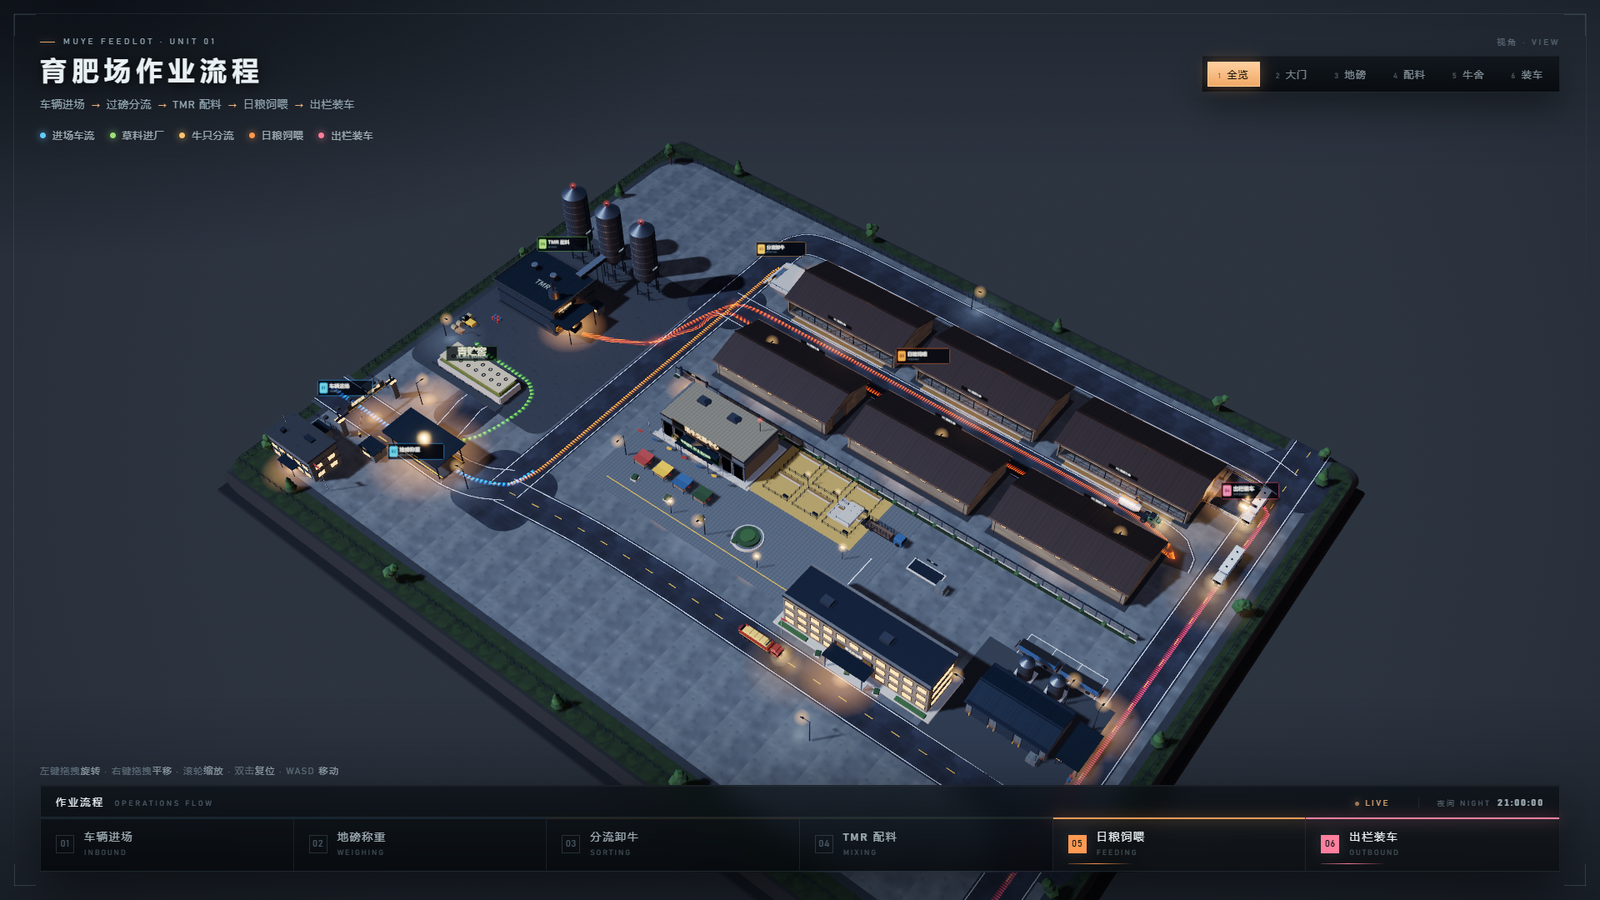
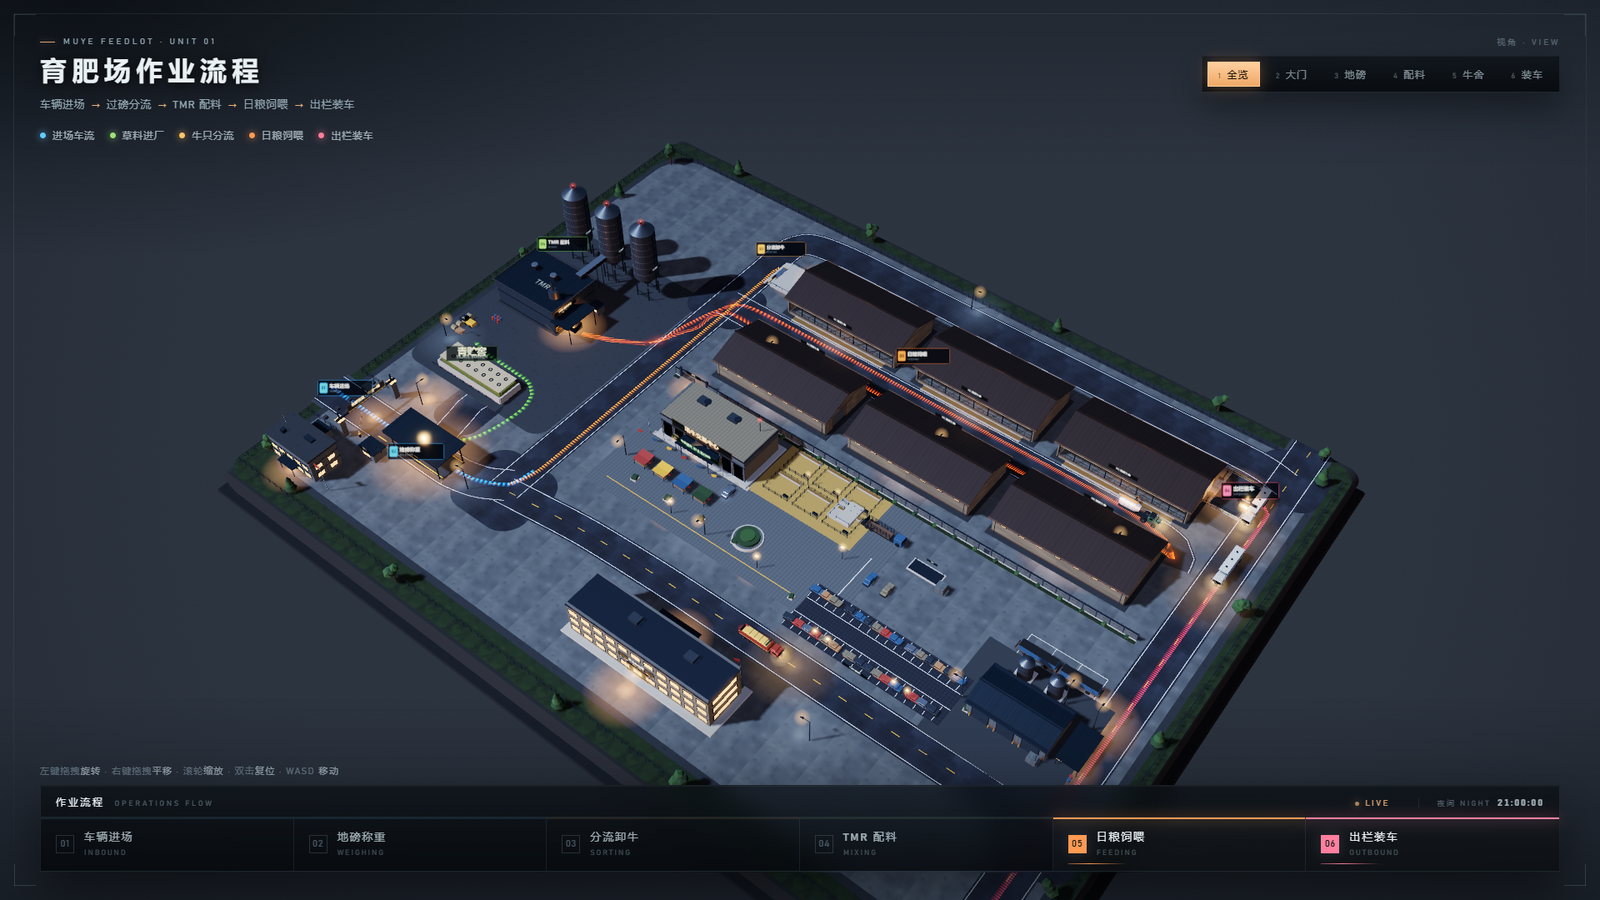
feat: 员工楼移到园区南侧，交易中心加停车场
- 员工办公楼挪到南侧临路的空地，整体转 180° 朝北，前后两个长立面都开窗，背面（园区一侧）加门廊与楼名
- 新增交易中心员工停车场：两排 48 个车位、三十来台程序化车辆、四盏车位灯、车位线与 P 牌
- 大厅门前补几台临停车辆
- kit 的镜像工具 generic 成 mirrorKit(kit,cx,cz,rot)，员工楼与镜像牛舍共用

Changed region(s): [[0.3438, 0.6222, 0.625, 0.8089]]

diff --git a/js/buildings.js b/js/buildings.js
@@ -114,10 +114,11 @@
   }
 
   /* 镜像排：几何绕自心转 180°（用旋转而不是负缩放，否则法线/绕序会反） */
-  function mirrorKit(kit, cx, cz) {
+  /* 把一棵 kit 子树整体绕 (cx,cz) 旋转 rot —— 用来做镜像牛舍和朝北的员工楼 */
+  function mirrorKit(kit, cx, cz, rot) {
     const pre = new THREE.Matrix4()
       .makeTranslation(cx, 0, cz)
-      .multiply(new THREE.Matrix4().makeRotationY(Math.PI))
+      .multiply(new THREE.Matrix4().makeRotationY(rot === undefined ? Math.PI : rot))
       .multiply(new THREE.Matrix4().makeTranslation(-cx, 0, -cz));
     return {
       add: function (geo, mat, matrix) {
@@ -945,9 +946,10 @@
   }
 
   /* ---------------- 员工办公楼 ---------------- */
-  function buildStaffOffice(kit, M, world) {
+  function buildStaffOffice(rawKit, M, world) {
     const O = L.market.office;
     const cx = O.cx, cz = O.cz, w = O.w, d = O.d;
+    const kit = O.rot ? mirrorKit(rawKit, cx, cz, O.rot) : rawKit;
     const zf = cz + d / 2;
     const H = 10.6;
 
@@ -960,19 +962,37 @@
     U.box(kit, M.wallCool, w + 0.4, 1.0, 0.3, cx, 0.8 + H + 0.62, zf - 0.2);
     U.box(kit, M.wallCool, w + 0.4, 1.0, 0.3, cx, 0.8 + H + 0.62, cz - d / 2 + 0.2);
 
-    // 三层窗（南立面）
+    // 三层窗（前后两个长立面都开窗，楼在路南侧、镜头从东南看过来）
     const bays = 11, bw = w / bays;
+    const zb = cz - d / 2;
     for (let f = 0; f < 3; f++) {
       const y = 2.2 + f * 3.3;
       for (let i = 0; i < bays; i++) {
         const x = cx - w / 2 + bw * (i + 0.5);
-        if (f === 0 && (i === 4 || i === 5 || i === 6)) continue;
-        U.box(kit, M.glass, bw - 1.05, 1.85, 0.14, x, y + 0.5, zf + 0.02);
-        U.box(kit, M.warmGlow, bw - 1.5, 1.5, 0.06, x, y + 0.5, zf + 0.1);
-        U.box(kit, M.steelLight, 0.14, 1.9, 0.2, x - (bw - 1.05) / 2, y + 0.5, zf + 0.06);
-        U.box(kit, M.steelLight, 0.14, 1.9, 0.2, x + (bw - 1.05) / 2, y + 0.5, zf + 0.06);
+        const frontDoor = f === 0 && (i === 4 || i === 5 || i === 6);
+        if (!frontDoor) {
+          U.box(kit, M.glass, bw - 1.05, 1.85, 0.14, x, y + 0.5, zf + 0.02);
+          U.box(kit, M.warmGlow, bw - 1.5, 1.5, 0.06, x, y + 0.5, zf + 0.1);
+          U.box(kit, M.steelLight, 0.14, 1.9, 0.2, x - (bw - 1.05) / 2, y + 0.5, zf + 0.06);
+          U.box(kit, M.steelLight, 0.14, 1.9, 0.2, x + (bw - 1.05) / 2, y + 0.5, zf + 0.06);
+        }
+        U.box(kit, M.glass, bw - 1.05, 1.85, 0.14, x, y + 0.5, zb - 0.02);
+        U.box(kit, M.warmGlow, bw - 1.5, 1.5, 0.06, x, y + 0.5, zb - 0.1);
+        U.box(kit, M.steelLight, 0.14, 1.9, 0.2, x - (bw - 1.05) / 2, y + 0.5, zb - 0.06);
+        U.box(kit, M.steelLight, 0.14, 1.9, 0.2, x + (bw - 1.05) / 2, y + 0.5, zb - 0.06);
       }
     }
+    // 背面（园区朝南那侧）也留个入口门廊与楼名
+    U.box(kit, M.glass, 7.2, 4.2, 0.16, cx, 2.5, zb - 0.04);
+    for (const px of [cx - 3.6, cx, cx + 3.6]) {
+      U.box(kit, M.steelLight, 0.2, 4.3, 0.2, px, 2.5, zb - 0.1);
+    }
+    sign(world, '员工办公楼', 'STAFF OFFICE · 综合管理', 10, 1.6, cx, 6.3, zb - 0.22, Math.PI, {
+      size: 88, subSize: 34, bg: 'rgba(9,12,15,0.92)', border: 'rgba(150,205,255,0.42)',
+      glow: 'rgba(120,180,255,0.28)', color: '#e6f1ff', subColor: 'rgba(175,205,235,0.8)',
+    });
+    glowPlane(world, 7.0, 3.4, cx, 2.5, zb - 0.3, Math.PI, 0xffc98a, 0.14);
+    world.pools.push({ x: cx, z: zb - 3.4, size: 18, warm: 0.85 });
     // 东西两侧条窗
     for (let f = 0; f < 3; f++) {
       const y = 2.2 + f * 3.3;
@@ -1053,6 +1073,87 @@
     }
   }
 
+  /* ---------------- 交易中心停车场 ---------------- */
+  function parkedCar(kit, M, x, z, rot, paint) {
+    const base = U.mat4(x, 0.24, z, 0, rot, 0);
+    const put = function (mat, w, h, d, px, py, pz, r) {
+      const g = U.roundedBox(w, h, d, r === undefined ? 0.06 : r);
+      g.applyMatrix4(U.mat4(px, py, pz));
+      g.applyMatrix4(base);
+      kit.add(g, mat);
+    };
+    put(M.plinth, 4.3, 0.34, 1.86, 0, 0.52, 0, 0.1);
+    put(paint, 3.9, 0.66, 1.8, 0, 0.86, 0, 0.24);
+    put(paint, 1.95, 0.6, 1.62, -0.15, 1.44, 0, 0.26);      // 车顶（跟车身同色，从上往下看才不是黑块）
+    put(M.glass, 1.9, 0.34, 1.66, -0.15, 1.3, 0, 0.1);      // 一圈车窗带
+    put(paint, 1.6, 0.16, 1.66, 1.5, 1.26, 0, 0.08);
+    put(M.plinth, 3.9, 0.12, 1.7, 0, 0.44, 0, 0.04);
+    for (const px of [1.32, -1.32]) {
+      for (const pz of [-0.8, 0.8]) {
+        const g = new THREE.CylinderGeometry(0.33, 0.33, 0.24, 12);
+        g.applyMatrix4(U.mat4(0, 0, 0, Math.PI / 2, 0, 0));
+        g.applyMatrix4(U.mat4(px, 0.38, pz));
+        g.applyMatrix4(base);
+        kit.add(g, M.plinth);
+      }
+    }
+  }
+
+  function buildParking(kit, M, world) {
+    const P = L.market.parking;
+    const st = P.stall || 2.7;
+    const midZ = (P.z0 + P.z1) / 2;
+    const aisle = P.aisle || 5.2;
+    const rowD = Math.min(5.2, (P.z1 - P.z0 - aisle) / 2);
+    const n = Math.floor((P.x1 - P.x0) / st);
+    const paints = [M.wall, M.galv, M.red, M.blue, M.steelLight, M.timberLight, M.wall, M.galv];
+
+    // 铺装与车位线
+    U.box(kit, M.asphalt, P.x1 - P.x0, 0.1, P.z1 - P.z0, (P.x0 + P.x1) / 2, 0.29, midZ, 0, 0, 0, 2);
+    for (let i = 0; i <= n; i++) {
+      const x = P.x0 + i * st;
+      U.box(kit, M.line, 0.14, 0.03, rowD - 0.5, x, 0.36, P.z0 + rowD / 2, 0, 0, 0, 0.02);
+      U.box(kit, M.line, 0.14, 0.03, rowD - 0.5, x, 0.36, P.z1 - rowD / 2, 0, 0, 0, 0.02);
+    }
+    U.box(kit, M.line, P.x1 - P.x0, 0.03, 0.14, (P.x0 + P.x1) / 2, 0.36, midZ - aisle / 2);
+    U.box(kit, M.line, P.x1 - P.x0, 0.03, 0.14, (P.x0 + P.x1) / 2, 0.36, midZ + aisle / 2);
+
+    // 车位上的车（按固定节奏留空位，看着像停了大半）
+    const order = [3, 1, 5, 2, 0, 4, 6, 2, 7, 0, 3, 5, 1, 4, 0, 6, 2, 7, 3, 1, 5, 0, 4, 2, 6, 3, 1, 0, 5, 2, 7, 4];
+    let k = 0;
+    for (let i = 0; i < n; i++) {
+      const x = P.x0 + st * (i + 0.5);
+      for (const half of [0, 1]) {
+        const z = half === 0 ? P.z0 + rowD / 2 - 0.15 : P.z1 - rowD / 2 + 0.15;
+        const rot = half === 0 ? 0 : Math.PI;
+        if ((i * 3 + half * 5) % 7 === 2) { k++; continue; }
+        parkedCar(kit, M, x, z, rot, paints[order[k % order.length]]);
+        k++;
+      }
+    }
+
+    // 车位灯 + 两个出入口
+    for (const lx of [P.x0 + 10, P.x1 - 10, P.x0 + 34, P.x1 - 34]) {
+      U.cyl(kit, M.steel, 0.08, 0.1, 5.0, 8, lx, 2.7, P.z1 - 1.0);
+      U.box(kit, M.lamp, 0.7, 0.16, 0.5, lx, 5.15, P.z1 - 1.0);
+      glowSprite(world, 0xffd7a0, 2.2, lx, 5.15, P.z1 - 1.0, 0.8);
+      world.pools.push({ x: lx, z: midZ, size: 12, warm: 0.8 });
+    }
+    sign(world, 'P 员工停车场', 'STAFF PARKING · 48 车位', 7.6, 1.5, (P.x0 + P.x1) / 2, 3.1, P.z1 + 1.2, 0, {
+      size: 72, subSize: 30, bg: 'rgba(8,12,14,0.9)', border: 'rgba(120,200,255,0.35)',
+      glow: 'rgba(90,180,255,0.2)', color: '#d6ecff',
+    });
+    // 入口花箱
+    for (const bx of [P.x0 - 3, P.x1 + 3]) {
+      U.box(kit, M.concreteTrough, 1.6, 0.6, 1.6, bx, 0.5, midZ, 0, 0, 0, 0.14);
+      U.box(kit, M.leafA, 1.35, 0.8, 1.35, bx, 1.0, midZ, 0, 0.4, 0, 0.3);
+    }
+    // 大厅门前几台临停
+    parkedCar(kit, M, -8, 15.4, Math.PI * 0.5, M.steelLight);
+    parkedCar(kit, M, 40, 15.4, Math.PI * 0.5, M.blue);
+    parkedCar(kit, M, 45.5, 15.4, Math.PI * 0.5, M.wall);
+  }
+
   /* ---------------- 入口 ---------------- */
   FL.buildBuildings = function (kit, M, world) {
     M.warmGlow.userData.noShadow = true;
@@ -1072,6 +1173,7 @@
     buildCompoundWall(kit, M, world);
     buildTradingCenter(kit, M, world);
     buildStaffOffice(kit, M, world);
+    buildParking(kit, M, world);
 
     // 机修车库挪到东南角，挂车停在员工车场
     buildWorkshop(kit, M, world, L.market.workshop.cx, L.market.workshop.cz);

diff --git a/js/layout.js b/js/layout.js
@@ -81,7 +81,8 @@
       ramp: { x: 23, z: 1 },
       scale: { x: 50, z: 4 },
       lot: { x0: 82, x1: 104, z0: 3.5, z1: 14.5 },
-      office: { cx: 52, cz: 33, w: 44, d: 12 },
+      parking: { x0: 30, x1: 78, z0: 24, z1: 40, aisle: 5.2, stall: 2.7 },
+      office: { cx: 12, cz: 68, w: 46, d: 12, rot: Math.PI },
       workshop: { cx: 92, cz: 26 },
     },
 

diff --git a/README.md b/README.md
@@ -45,7 +45,7 @@ python -m http.server 8080
 ## 场景里有什么
 
 - **园区**：254×194 米地块，有厚度的地台（不是无限网格），**六栋育肥牛舍**（三栋朝南、三栋隔着日粮道朝北，料槽、颈夹、饮水槽、卷帘、门洞暖光、背面高位通风格栅）、卸牛台、地磅与磅房、大门门卫、综合楼、TMR 配料中心 + 三只原料筒仓 + 青贮窖（覆膜 + 压胎）、出栏装车台、机修车库、挂车停车场、路灯、树。
-- **生产区与交易区**：一道 2.4 米高的围墙把牛舍区隔开，留一处车行大门（挂着"生产区 · 谢绝参观"）和一处人行小门；围墙南侧是**活牛交易中心**——玻璃幕墙的交易大厅（行情屏写着当日活牛价与成交头数）、六格待售栏（料槽、水槽、栏间过道灯）、装牛台和一辆停着的活牛车、交易地磅、四个彩色雨棚摊位、彩旗和中央花池；南侧临路是三层**员工办公楼**，再往东是机修车库与员工车场。
+- **生产区与交易区**：一道 2.4 米高的围墙把牛舍区隔开，留一处车行大门（挂着"生产区 · 谢绝参观"）和一处人行小门；围墙南侧是**活牛交易中心**——玻璃幕墙的交易大厅（行情屏写着当日活牛价与成交头数）、六格待售栏（料槽、水槽、栏间过道灯）、装牛台和一辆停着的活牛车、交易地磅、四个彩色雨棚摊位、彩旗和中央花池；交易中心东侧是**员工停车场**（两排车位 + 三十来台车 + 车位灯），大厅门口还有几台临停；南侧临路是三层**员工办公楼**（双面开窗，夜里整栋亮着），再往东是机修车库与挂车车场。
 - **车**：活牛运输车（栅栏车厢）、草料自卸车（草捆 + 篷布）、TMR 日粮车（拖拉机 + 卧式搅拌罐）、出栏平板车。车按弧长路线跑，到站点会停留（过磅 3s、卸青贮 9s、卸牛 10s、投料 6s×6 站、装车 10s），停靠时地面上会亮起作业光斑并浮出作业标签。
 - **流向**：五组加法混合的流光带（进场 / 草料 / 牛只 / 日粮 / 出栏），用 `uTime` 驱动脉冲前进，配合路面黄色中线一起指出方向。
 - **昼夜**：`js/daycycle.js` 把一天拆成深夜 / 晨昏 / 白天三套配色做连续插值——天空穹顶的顶点色、太阳与月亮的方位和光色、半球光、雾的颜色与浓度、曝光、场内灯具与地面光斑的亮度全部同步，太阳落下去时场灯和窗户一点点亮起来。
